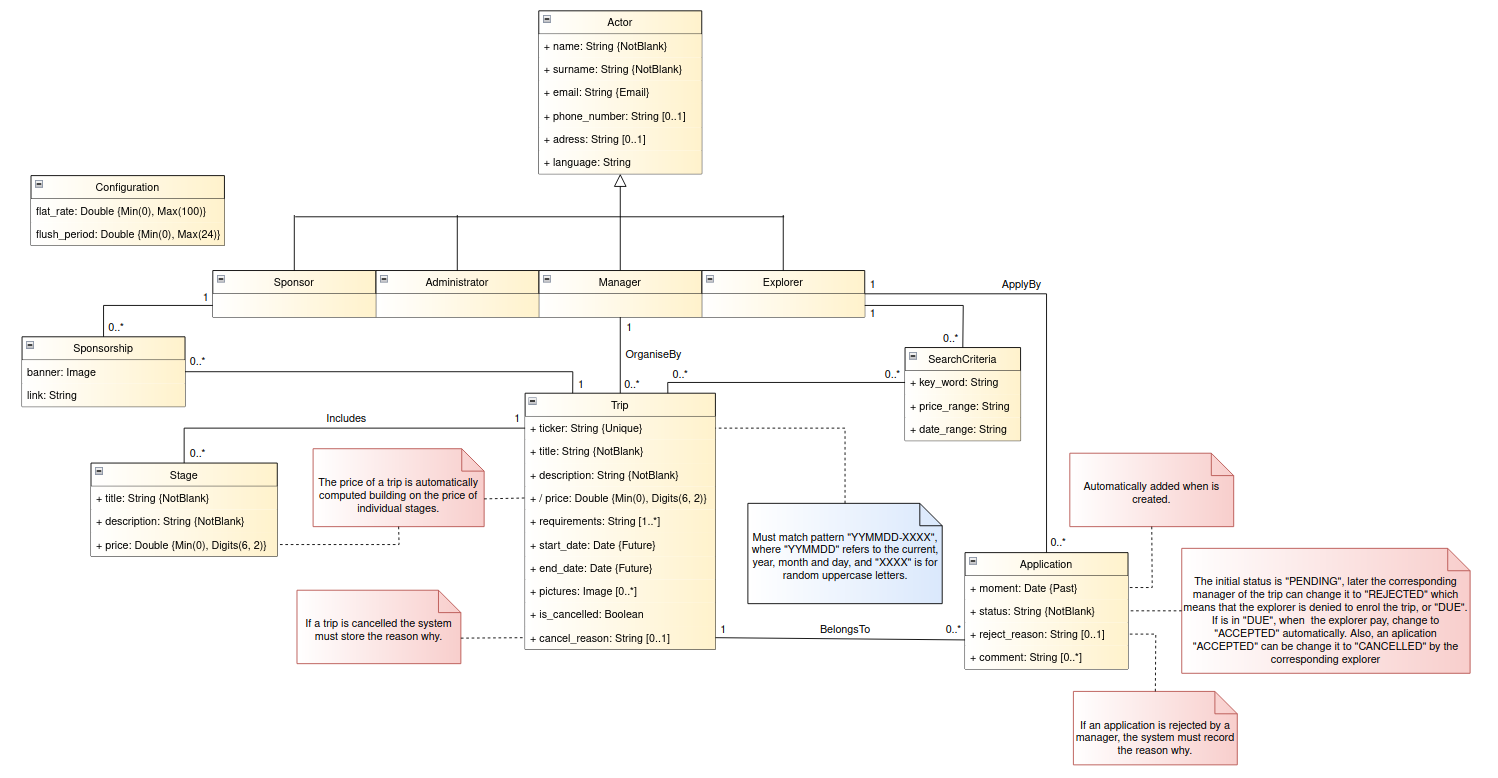
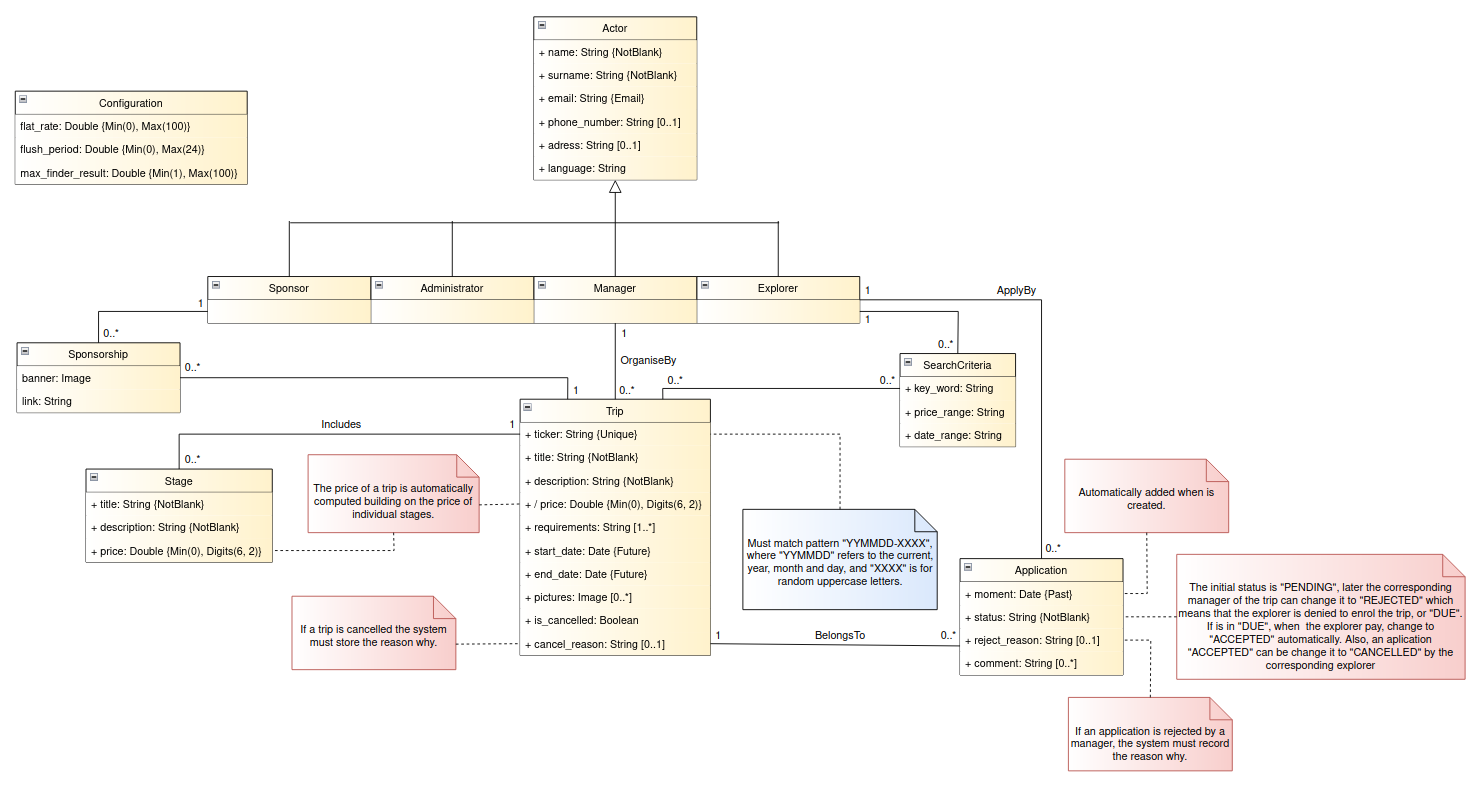
feat: add basic crud

diff --git a/api/controllers/sponsorshipController.js b/api/controllers/sponsorshipController.js
@@ -14,16 +14,6 @@ exports.list_all_sponsorships = function (req, res) {
   })
 }
 
-exports.list_my_sponsorships = function (req, res) {
-  Sponsorship.find({}, function (err, orders) {
-    if (err) {
-      res.send(err)
-    } else {
-      res.json(orders)
-    }
-  })
-}
-
 exports.create_a_sponsorship = function (req, res) {
   const newSponsorship = new Sponsorship(req.body)
 
@@ -62,24 +52,6 @@ exports.update_a_sponsorship = function (req, res) {
   })
 }
 
-exports.pay_a_sponsorship = function (req, res) {
-    Sponsorship.findById(req.params.sponsorshipId, function (err, sponsorship) {
-      if (err) {
-        res.send(err)
-      } else {
-        Sponsorship.findOneAndUpdate({ _id: req.params.sponsorshipId }, req.body, { new: true }, function (err, sponsorship) {
-          if (err) {
-            res.send(err)
-          } else {
-            res.json(sponsorship)
-          }
-        })
-      }
-    })
-  }
-
-
-
 exports.delete_a_sponsorship = function (req, res) {
   Sponsorship.deleteOne({
     _id: req.params.sponsorshipId
@@ -88,6 +60,20 @@ exports.delete_a_sponsorship = function (req, res) {
       res.send(err)
     } else {
       res.json({ message: 'Sponsorship successfully deleted' })
+    }
+  })
+}
+
+exports.pay_a_sponsorship = function (req, res) {
+  res.status(200)
+}
+
+exports.list_actor_sponsorships = function (req, res) {
+  Sponsorship.find({actor_id: req.params.actorId}, function (err, sponsorships) {
+    if (err) {
+      res.send(err)
+    } else {
+      res.json(sponsorships)
     }
   })
 }

diff --git a/api/controllers/tripController.js b/api/controllers/tripController.js
@@ -14,16 +14,6 @@ exports.list_all_trips = function (req, res) {
   })
 }
 
-exports.list_my_trips = function (req, res) {
-  Trip.find({}, function (err, orders) {
-    if (err) {
-      res.send(err)
-    } else {
-      res.json(orders)
-    }
-  })
-}
-
 exports.create_a_trip = function (req, res) {
   const newTrip = new Trip(req.body)
 
@@ -62,10 +52,6 @@ exports.update_a_trip = function (req, res) {
   })
 }
 
-exports.pay_a_trip = function (req, res) {
-  res.status(200)
-}
-
 exports.delete_a_trip = function (req, res) {
   Trip.deleteOne({
     _id: req.params.tripId
@@ -74,6 +60,20 @@ exports.delete_a_trip = function (req, res) {
       res.send(err)
     } else {
       res.json({ message: 'Trip successfully deleted' })
+    }
+  })
+}
+
+exports.pay_a_trip = function (req, res) {
+  res.status(200)
+}
+
+exports.list_actor_trips = function (req, res) {
+  Trip.find({actor_id: req.params.actorId}, function (err, trips) {
+    if (err) {
+      res.send(err)
+    } else {
+      res.json(trips)
     }
   })
 }

diff --git a/api/controllers/applicationController.js b/api/controllers/applicationController.js
@@ -52,10 +52,6 @@ exports.update_an_application = function (req, res) {
   })
 }
 
-exports.cancel_an_application = function (req, res) {
-  res.status(200)
-}
-
 exports.delete_an_application = function (req, res) {
   Application.deleteOne({
     _id: req.params.applicationId
@@ -64,6 +60,20 @@ exports.delete_an_application = function (req, res) {
       res.send(err)
     } else {
       res.json({ message: 'Application successfully deleted' })
+    }
+  })
+}
+
+exports.cancel_an_application = function (req, res) {
+  res.status(200)
+}
+
+exports.list_actor_applications = function (req, res) {
+  Application.find({actor_id: req.params.actorId}, function (err, applications) {
+    if (err) {
+      res.send(err)
+    } else {
+      res.json(applications)
     }
   })
 }

diff --git a/api/controllers/actorController.js b/api/controllers/actorController.js
@@ -55,12 +55,12 @@ exports.ban_an_actor = function (req, res) {
   })
 }
 
-exports.delete_an_actor = function (req, res) {
-  Actor.deleteOne({ _id: req.params.actorId }, function (err, actor) {
-    if (err) {
-      res.send(err)
-    } else {
-      res.json({ message: 'Actor successfully deleted' })
-    }
-  })
-}
+// exports.delete_an_actor = function (req, res) {
+//   Actor.deleteOne({ _id: req.params.actorId }, function (err, actor) {
+//     if (err) {
+//       res.send(err)
+//     } else {
+//       res.json({ message: 'Actor successfully deleted' })
+//     }
+//   })
+// }

diff --git a/api/controllers/configurationController.js b/api/controllers/configurationController.js
@@ -35,3 +35,19 @@ exports.updates_period = function (req, res) {
     }
   })
 }
+
+exports.updates_finder_result = function (req, res) {
+  Configuration.findById(req.params.configurationId, function (err, configuration) {
+    if (err) {
+      res.send(err)
+    } else {
+      Configuration.findOneAndUpdate({ _id: req.params.configurationId }, req.body, { new: true }, function (err, configuration) {
+        if (err) {
+          res.send(err)
+        } else {
+          res.json(configuration)
+        }
+      })
+    }
+  })
+}

diff --git a/api/routes/actorRoutes.js b/api/routes/actorRoutes.js
@@ -15,13 +15,4 @@ module.exports = function (app) {
   app.route('/actors/:actorId/ban')
     .put(actors.ban_an_actor)
 
-  app.route('/actors/trips/:actorId')
-    .put(actors.ban_an_actor)
-
-  app.route('/actors/applications/:actorId')
-    .put(actors.ban_an_actor)
-
-  app.route('/actors/sponsorships/:actorId')
-    .put(actors.ban_an_actor)
-
 }

diff --git a/api/routes/applicationRoutes.js b/api/routes/applicationRoutes.js
@@ -15,4 +15,7 @@ module.exports = function (app) {
   app.route('/applications/:applicationId/cancel')
     .put(application.cancel_an_application)
 
+  app.route('/applications/:actorId')
+    .get(actors.list_actor_applications)
+
 }

diff --git a/api/routes/sponsorshipRoutes.js b/api/routes/sponsorshipRoutes.js
@@ -15,4 +15,7 @@ module.exports = function (app) {
   app.route('/sponsorships/:sponsorshipId/pay')
     .put(sponsorship.pay_a_sponsorship)
 
+  app.route('/sponsorships/:actorId')
+    .get(actors.list_actor_sponsorships)
+
 }

diff --git a/api/routes/configurationRoutes.js b/api/routes/configurationRoutes.js
@@ -9,4 +9,7 @@ module.exports = function (app) {
   app.route('/period')
     .put(configuration.updates_period)
 
+  app.route('/finder/result')
+    .put(configuration.updates_finder_result)
+
 }

diff --git a/api/routes/tripRoutes.js b/api/routes/tripRoutes.js
@@ -26,4 +26,7 @@ module.exports = function (app) {
     .put(stage.update_a_stage)
     .delete(stage.delete_a_stage)
 
+  app.route('/trips/:actorId')
+    .get(actors.list_actor_trips)
+
 }
